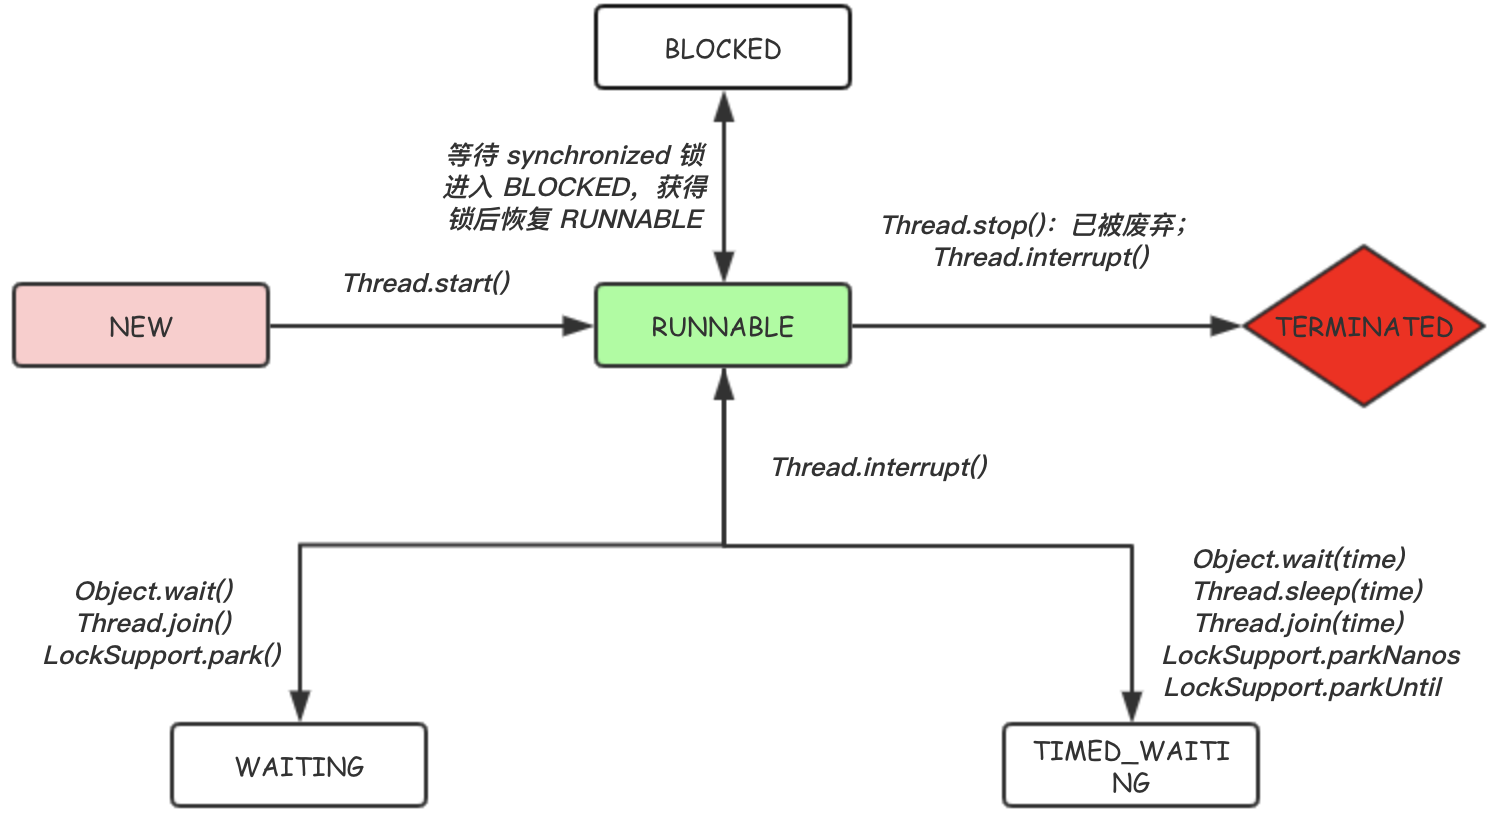
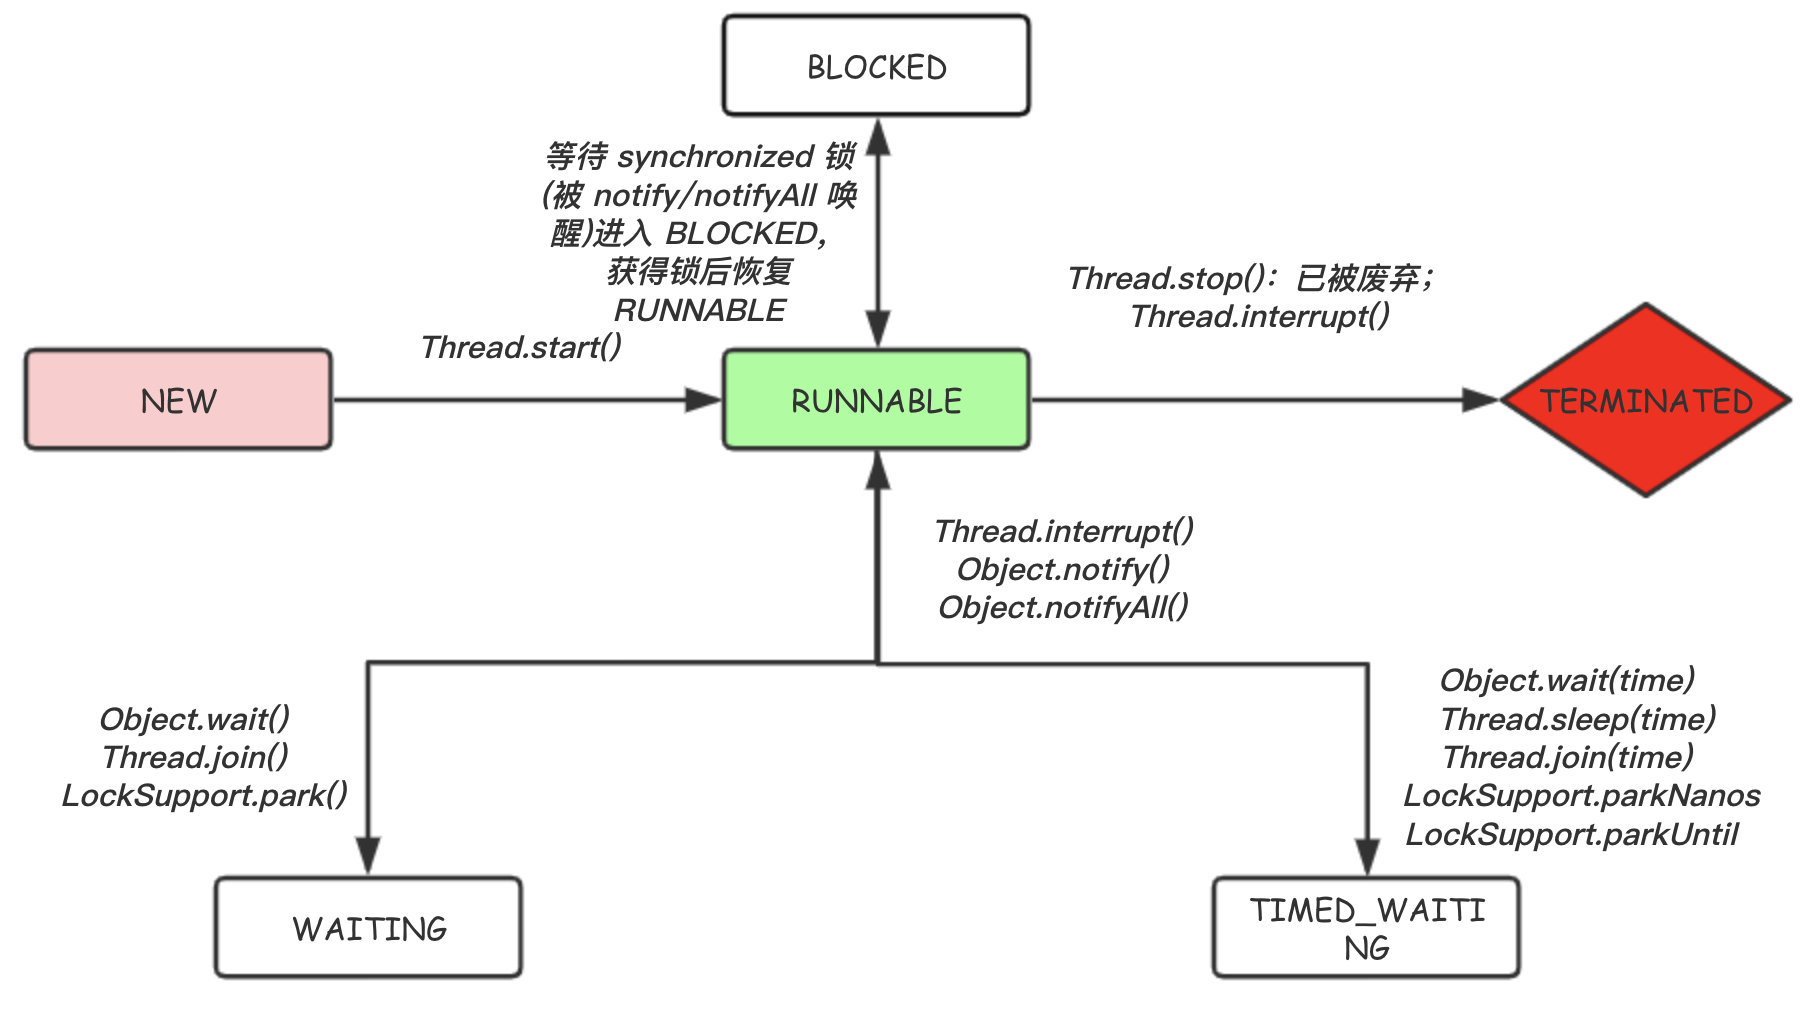
添加 Object 类中方法等内容

Changed region(s): [[0.0, 0.2792, 0.996, 0.9928], [0.2801, 0.0, 0.5914, 0.3413], [0.5914, 0.2482, 0.8093, 0.3413]]

diff --git a/dir/java/Java基础.md b/dir/java/Java基础.md
@@ -1,4 +1,6 @@
-Java 基础
+### Java 基础
+
+#### 类和对象
 
 - 接口和抽象类的区别
 
@@ -9,7 +11,36 @@ Java 基础
 5. 一个类只能继承一个抽象类，而一个类却可以实现多个接口；
 6. 抽象类是对一种事物的抽象，即对类抽象，而接口是对行为的抽象。
 
-- 为什么 Java 是单继承的？
+#### Object
+
+- Object 类中的方法有哪些？
+
+1. `Object()`：构造方法:
+
+2. 线程相关：`wait()`、`wait(long timeout)`、`wait(long timeout, int nanos)`、`notify()`、`notifyAll()`，这些方法都只能被持有该对象锁的线程调用，**都是 final 方法，不允许被覆盖**；
+
+3. `equals(Object obj)`：用于比较给定的对象是否与 this 相等；
+
+4. `hashCode()`：返回一个整型数，用于表示该对象的哈希码，该方法主要用于哈希集合中。该方法遵循以下规范：
+
+    1. 如果两个对象相等（equals() 方法返回 true），那么这两个对象调用 hashCode() 返回的哈希码也必须相等；
+    2. 反之，两个对象调用 hasCode() 返回的哈希码相等，这两个对象不一定相等。
+
+5. `toString()`：获取该对象的字符串表示形式，默认由该对象的类名以及哈希码的 16 进制表示。
+
+```java
+public String toString() {
+    return getClass().getName() + "@" + Integer.toHexString(hashCode());
+}
+```
+
+6. `getClass()`：返回该对象的类对象，**final 方法，不允许被覆盖**；
+
+7. `clone()`：native 方法，用于返回一个该对象的拷贝。**覆盖此方法的同时还需要实现 Cloneable 接口**，否则在调用时会抛出 CloneNotSupportedException。
+
+8. `finalize()`：与 GC 有关。当一个对象被 GC 线程判定为可回收时，会将该对象放到一个队列中，然后依次去执行队列里对象的 finalize 方法。
+
+9. `registerNatives()`：静态方法，用于注册本地方法。
 
 #### Integer
 

diff --git a/dir/java/集合.md b/dir/java/集合.md
@@ -1,4 +1,3 @@
-
 ### 普通集合
 
 #### 讲述一下集合类的类继承关系？TreeSet 继承了哪些接口？TreeMap 继承了哪些接口？
@@ -29,6 +28,52 @@ ListIterator.add(E element)|O(n)，因为需要移动 index 之后的数据 | O(
 #### ArrayList 的默认容量？
 
 若在实例化 ArrayList 的时候没有指定容量，则会在第一次执行 `add` 的时候将内部数组初始化为长度 10。
+
+#### [ArrayList 如何在循环过程中删除元素？](http://swiftlet.net/archives/743)
+
+```java
+public static void main(String[] args) {
+    ArrayList<String> list = new ArrayList<String>();
+    list.add("a");
+    list.add("b");
+    list.add("b");
+    list.add("c");
+    list.add("c");
+    list.add("c");
+    remove(list);
+}
+// 方法一：
+public static void remove(ArrayList<String> list) {
+    // 需要逆序删除，正序的话因为 remove 时数组需要进行拷贝，导致下标向前移动了一位，而使得部分元素无法被删除。
+    for (int i = list.size() - 1; i >= 0; i--) {
+        String s = list.get(i);
+        if (s.equals("b")) {
+            list.remove(s);
+        }
+    }
+}
+
+// 方法二：
+public static void remove(ArrayList<String> list) {
+    Iterator<String> it = list.iterator();
+    while (it.hasNext()) {
+        String s = it.next();
+        if (s.equals("b")) {
+            // 需要用 iterator.remove 而不能用 list.remove，否则会抛出 java.util.ConcurrentModificationException。
+            it.remove();
+        }
+    }
+}
+
+// 有问题的方式，for-each 方式只是 Iterator 方式的语法糖，会抛出 ConcurrentModificationException。
+public static void remove(ArrayList<String> list) {
+    for (String s : list) {
+        if (s.equals("b")) {
+            list.remove(s);
+        }
+    }
+}
+```
 
 #### LinkedList 在 `get(int index)` 操作时的优化？
 

diff --git a/dir/分布式/rpc.md b/dir/分布式/rpc.md
@@ -1,1 +1,17 @@
+- RPC 的三个关注点
+1. 通信方式
+2. 序列化和反序列化
+3. 寻址
+
 - 常见的 RPC 有哪些？对应的区别和性能比较？
+
+RPC 的目的是让你在本地调用远程的方法，而对你来说这个调用是透明的，你并不知道这个调用的方法部署在哪里。
+
+1. Java RMI：Java 原生提供的方式，采用 Java 序列化机制。
+2. Dubbo：支持多种序列化方式（hessian、json、Java 序列化）、多种调用方式（TCP、HTTP）、不同的注册中心等。
+3. Hessian
+4. gRPC：多语言，采用 ProtoBuf 序列化方式，效率高。
+5. thrift
+6. Spring Cloud：全套解决方案（配置管理，服务发现，熔断，路由，微代理，消息总线等）。
+
+- RPC 和 RESTful 的比较

diff --git a/dir/java/并发.md b/dir/java/并发.md
@@ -309,6 +309,9 @@ public static void main(String[] args) throws ExecutionException, InterruptedExc
 3. wait 要在同步块内调用；
 4. sleep 方法有时间限制；wait 可以选择是否加上时间参数。
 
+- notify 和 notifyAll 的比较
+
+`obj.notify()` 只会选择其中一个调用了 `obj.wait` 的线程进行唤醒，而 `obj.notifyAll()` 则会唤醒所有调用了 `obj.wait` 的线程。建议使用 notifyAll，从而避免 notify 唤醒了一个错误的线程的情况（例如生产者-消费者模式中，有多个生产者和多个消费者，生产者调用 notify 却是唤醒了另一个生产者的情况）。
 
 - Callable 和 Future 的了解
 

diff --git a/dir/os/Linux.md b/dir/os/Linux.md
@@ -1,0 +1,1 @@
+- 进程间通信的方式有哪些？
